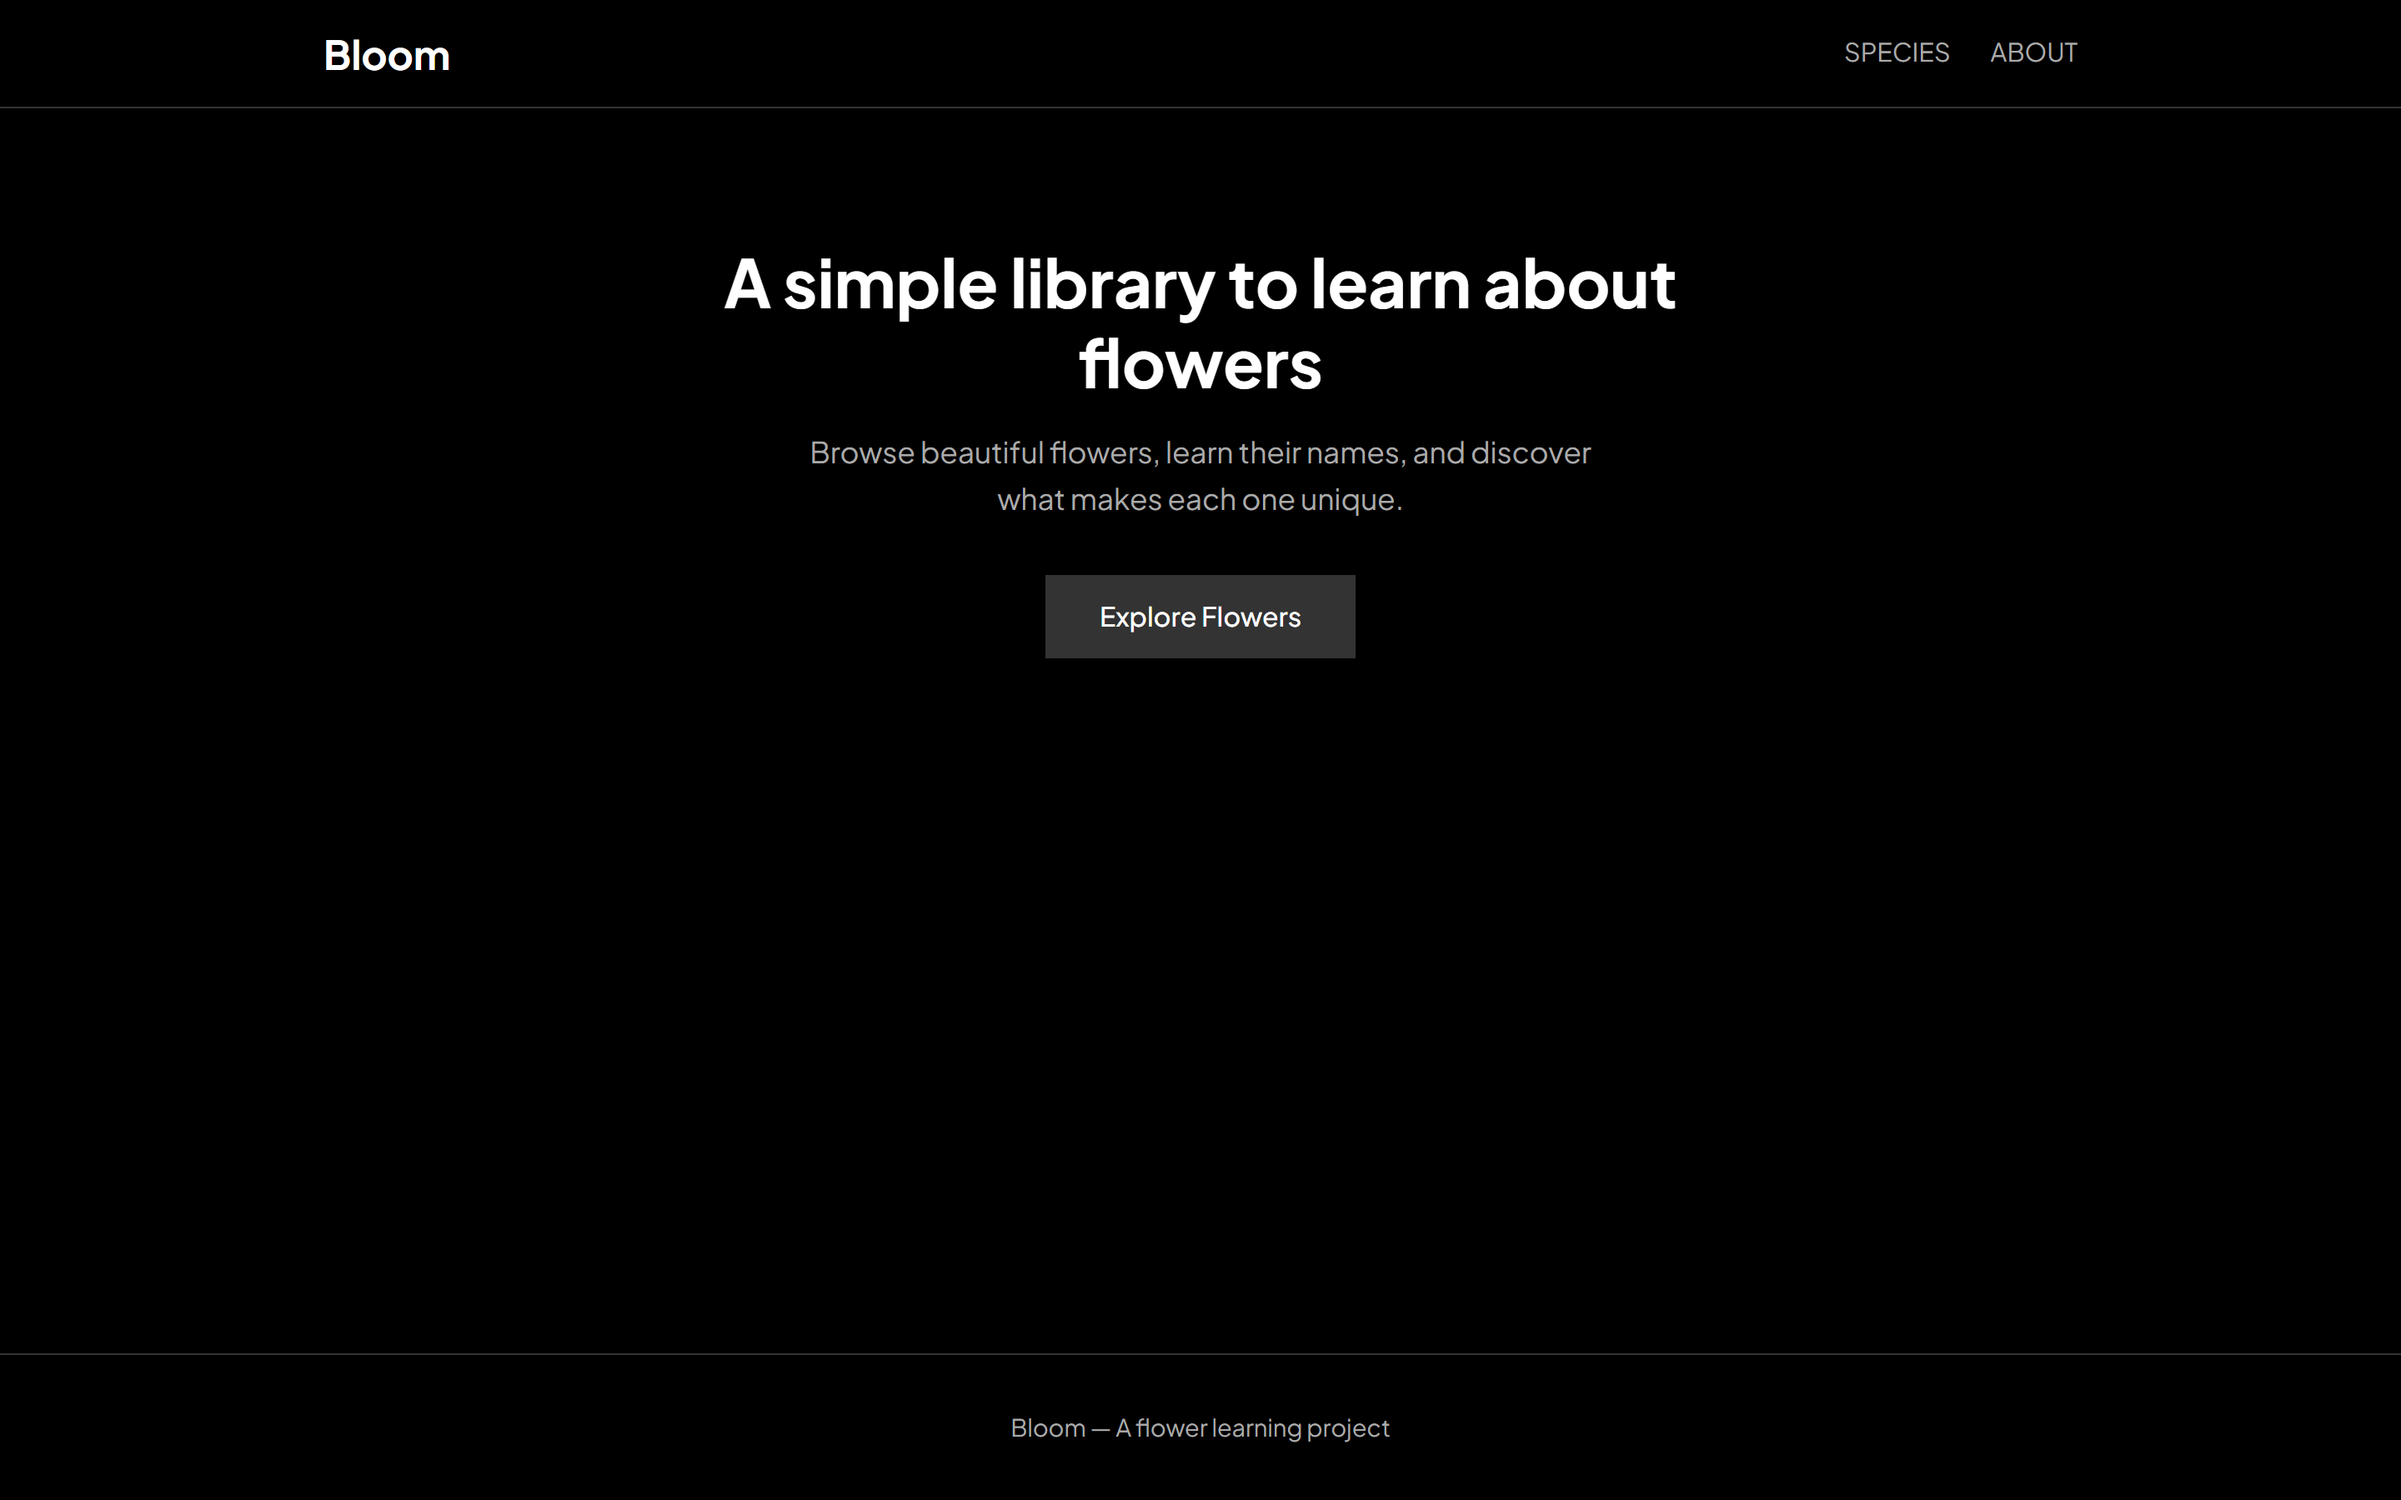
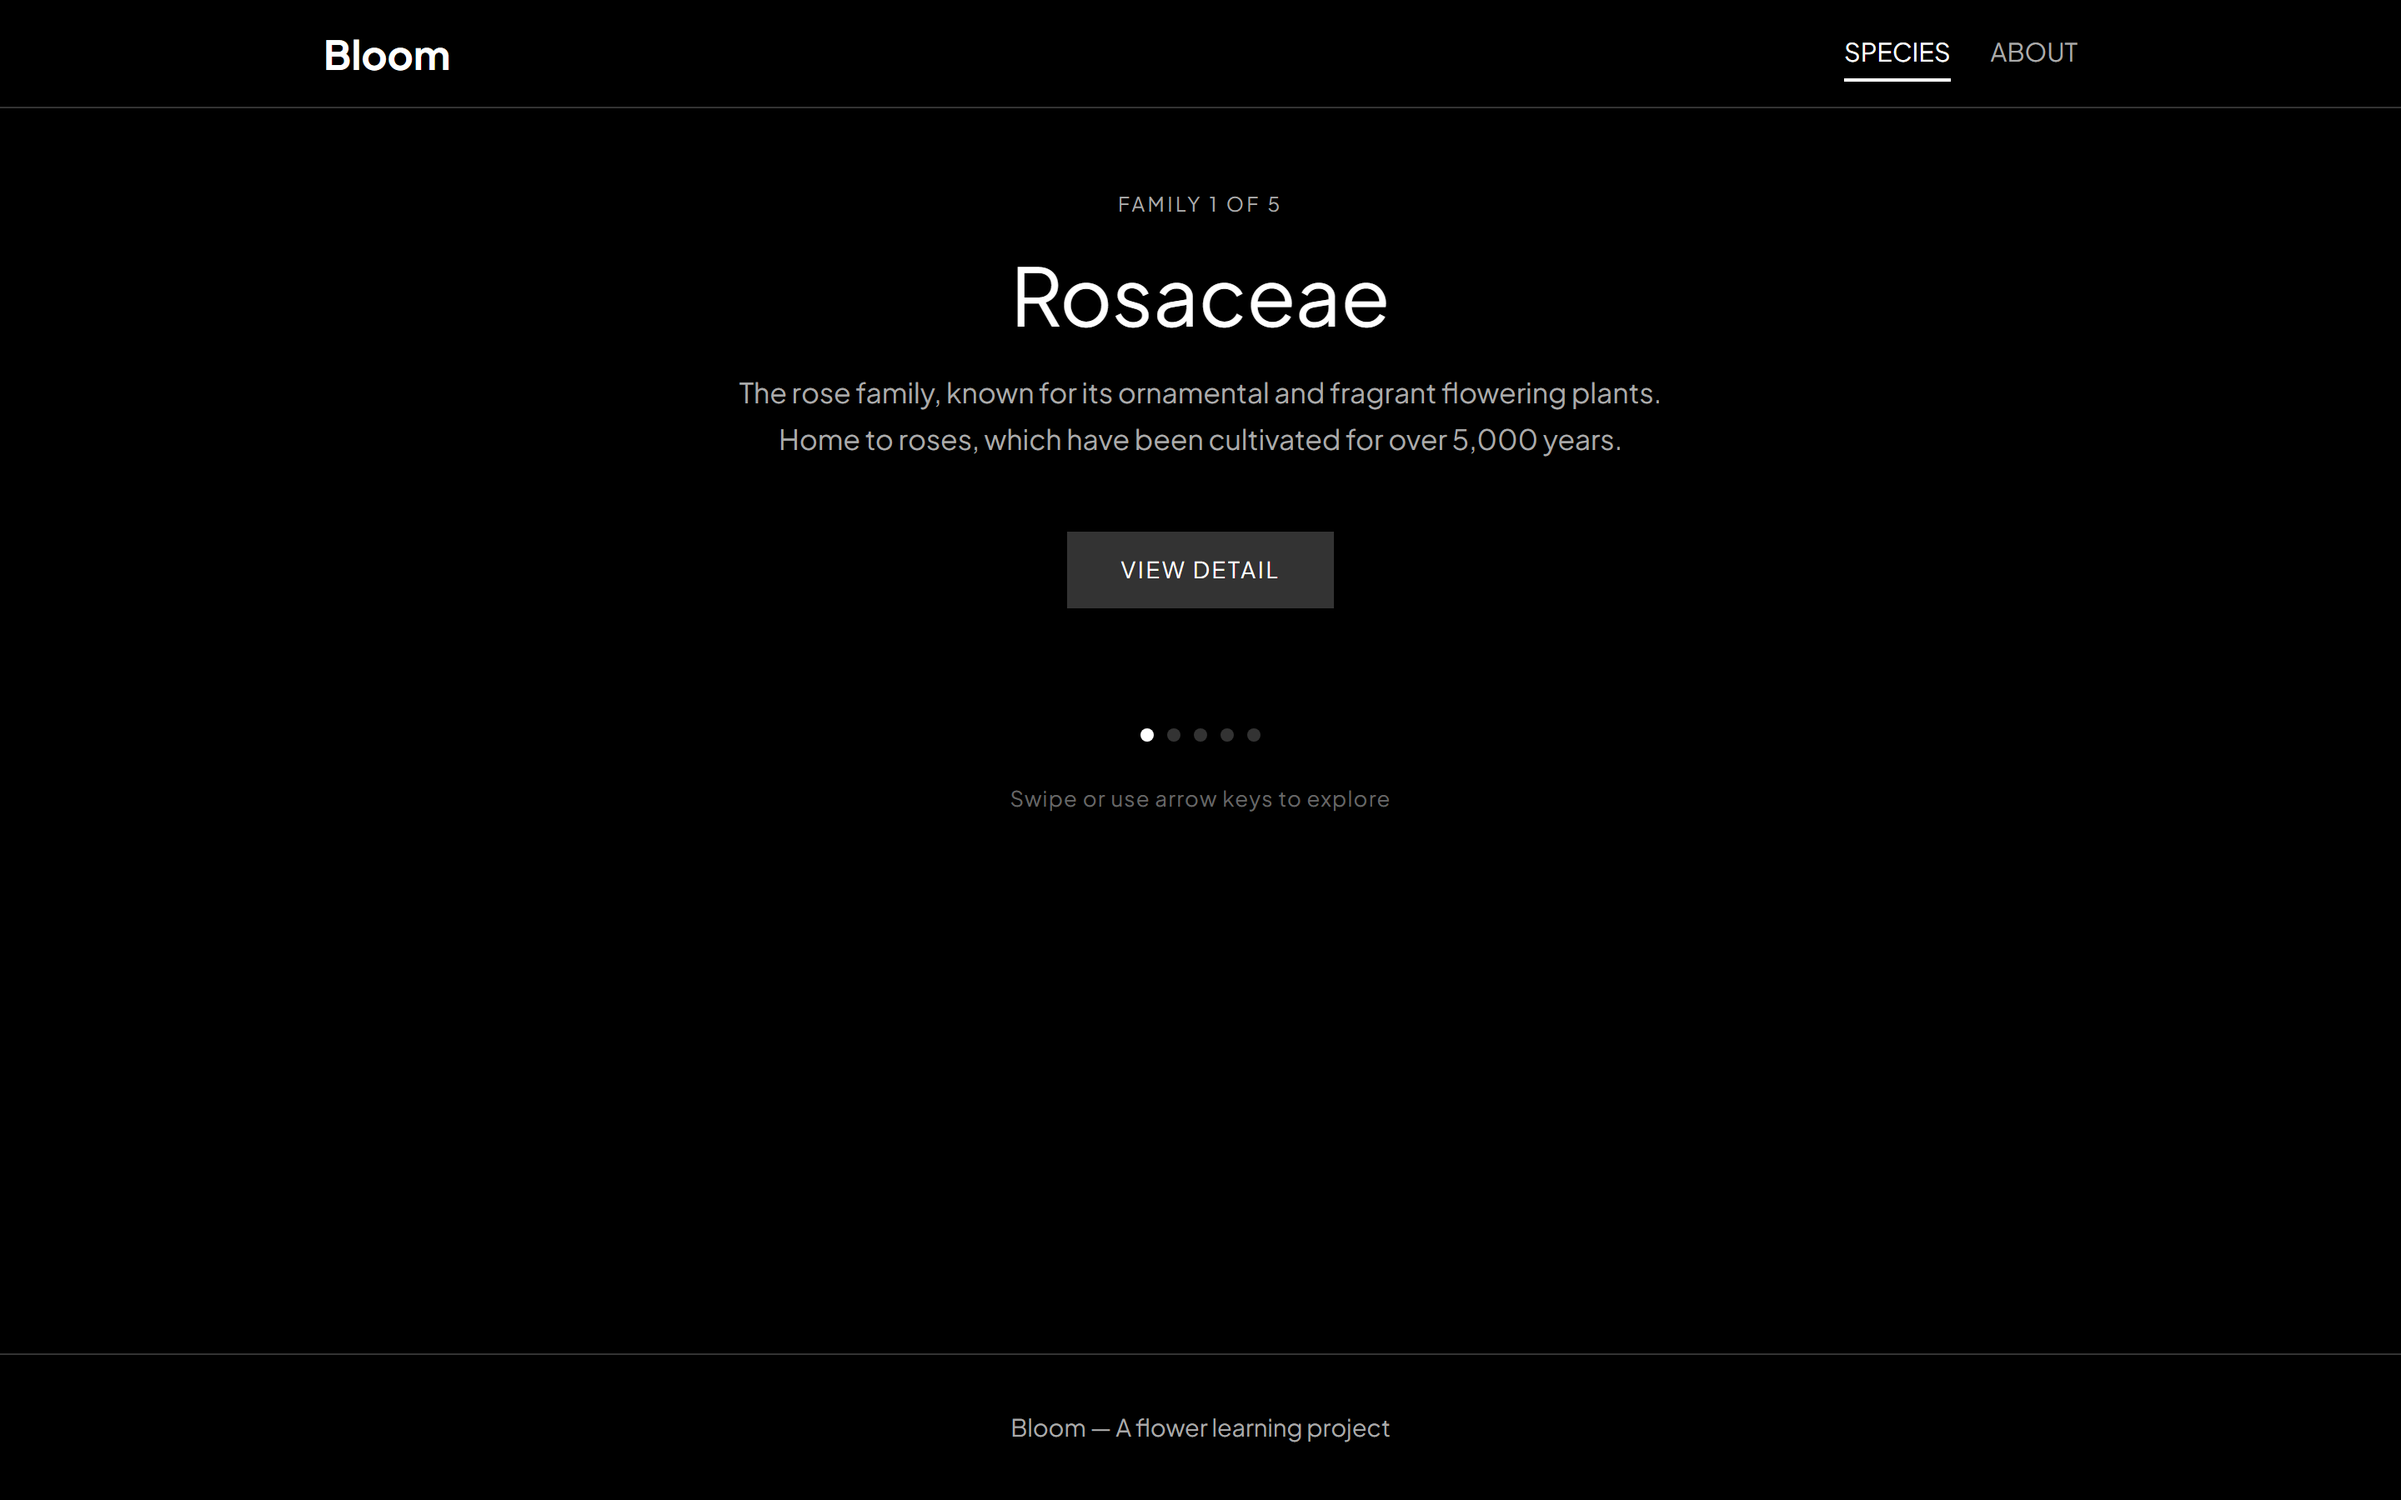
Allow a project to be screenshotted at a different address
Bloom's landing screen is a title and a button on a black field, which
told a visitor nothing about the work. The optional screenshotUrl now
decides what gets photographed, while the card's link keeps pointing at
url, so Bloom is captured at /flowers where the catalogue is visible.

The script also checks the HTTP status now: a 404 renders like any other
page and would have been photographed as if nothing were wrong.

Claude-Session: https://claude.ai/code/session_01FHXahFvZ8EEuTdfgjYbc9q

Changed region(s): [[0.2812, 0.1244, 0.6875, 0.4978], [0.4375, 0.5289, 0.5625, 0.56], [0.7812, 0.0311, 0.8125, 0.0622]]

diff --git a/v2/src/data/projects.ts b/v2/src/data/projects.ts
@@ -6,6 +6,11 @@ export interface Project {
   description: string;
   url: string;
   /**
+   * Адрес для скриншота, если первый экран главной плохо
+   * показывает работу. Ссылка с карточки всё равно ведёт на url.
+   */
+  screenshotUrl?: string;
+  /**
    * Имя файла скриншота в src/assets/projects (например "dala-coffee.png").
    * Пустая строка означает, что скриншота ещё нет — карточка просто
    * отрисуется без картинки.
@@ -54,8 +59,9 @@ export const projects: Project[] = [
     description:
       "Многостраничный справочник цветов на английском. Делала, чтобы разобраться с роутингом и выводом списков.",
     url: "https://bloomings.netlify.app/",
+    screenshotUrl: "https://bloomings.netlify.app/flowers",
     image: "bloom.png",
-    imageAlt: "Главная страница справочника цветов Bloom",
+    imageAlt: "Страница семейства цветов в справочнике Bloom",
     tags: ["Учебный проект", "Многостраничный"],
     featured: false,
   },
